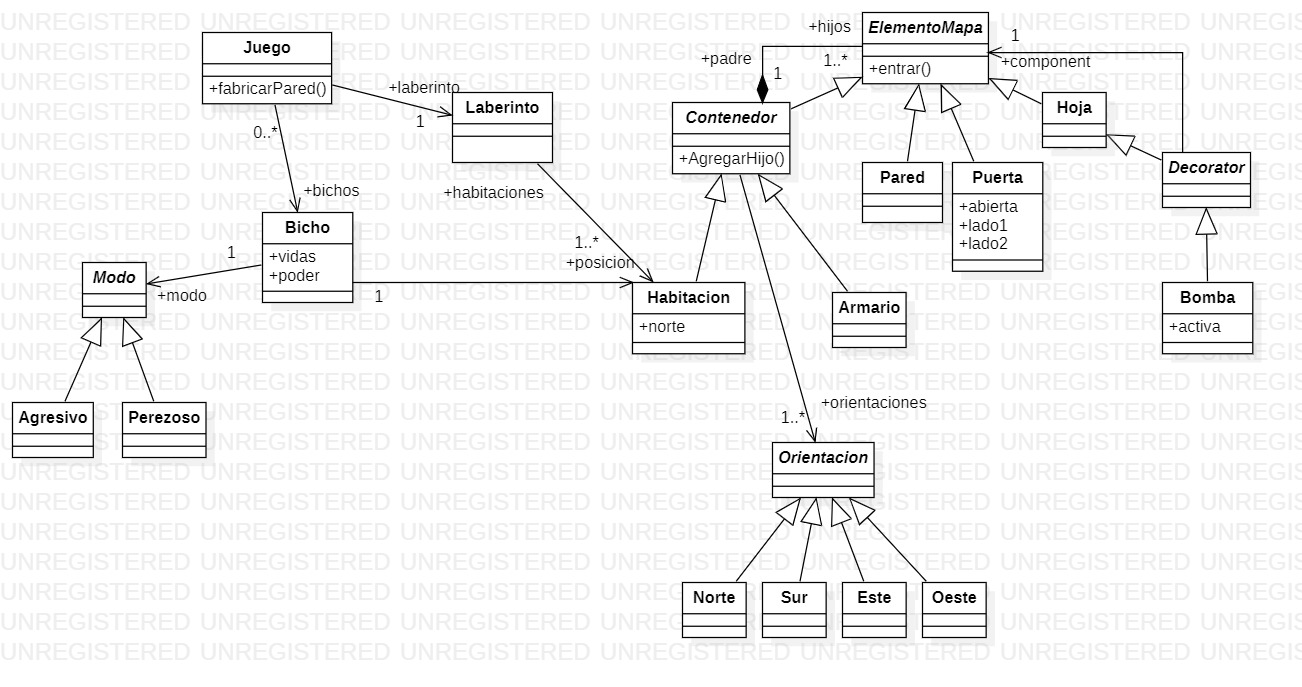
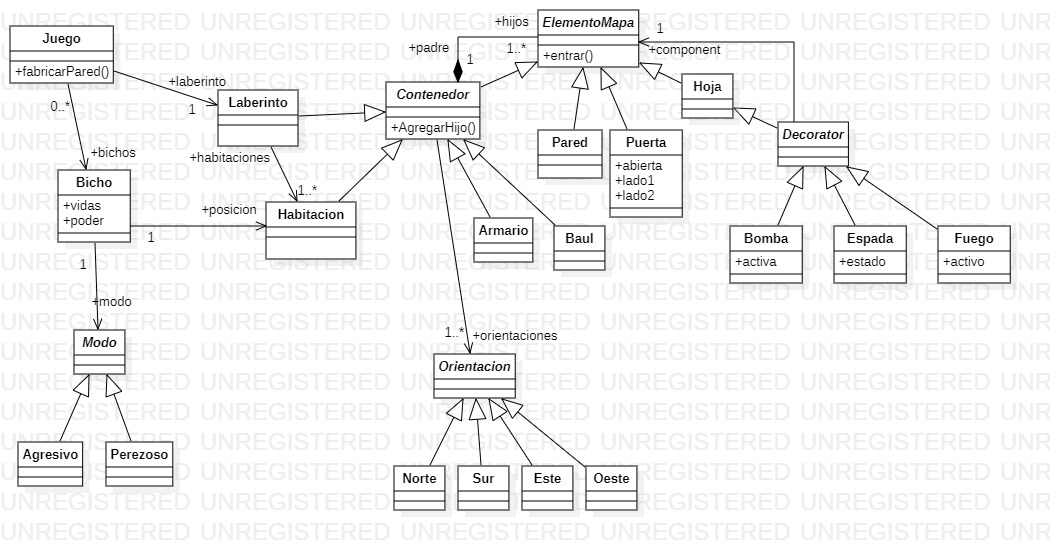
Cambio de diagrama añadiendo clases para ejercicio 2

diff --git a/Model/Fuego.py b/Model/Fuego.py
@@ -5,13 +5,13 @@ from Decorator import Decorator
 
 class Fuego(Decorator):
     def __init__(self):
-        self.estado = True
+        self.activo = True
 
     def esFuego(self):
         return True
     
     def __str__(self):
-        if self.estado:
+        if self.activo:
             estado = 'Activo'
         else:
             estado = 'No activo'

diff --git a/README.md b/README.md
@@ -9,4 +9,5 @@
 - Decorator
 - Strategy
 - Composite
+- Iterator 
 <img src="https://github.com/alenavarroxp/laberintoPython/blob/main/DesignDiagram/DiagramaDise%C3%B1o.jpg"/>
